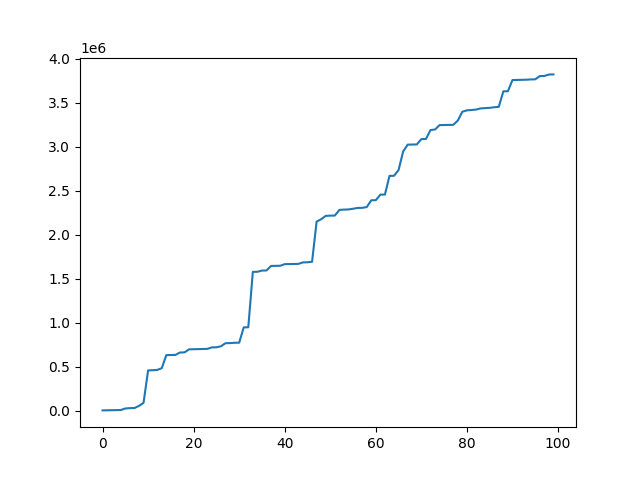
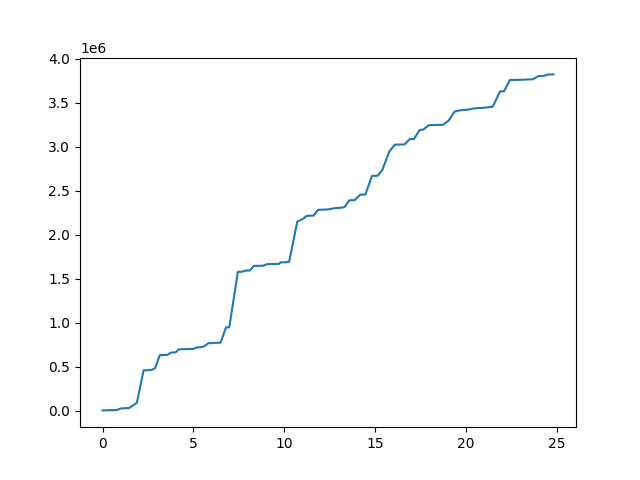
use time_stamps as x axis values

diff --git a/DataOutput.py b/DataOutput.py
@@ -1,14 +1,17 @@
 import json
 import matplotlib.pyplot as plt
+import matplotlib.ticker as mticker
 import os
 from pathlib import Path
 import sys
+from datetime import datetime
 from error_messages import print_err
 from error_messages import print_warn
 
 
 class DataOutput:
     lists = {
+        "time": [],
         "cpu_percent": [],
         "ram_percent": [],
         "bytes_recv": [],
@@ -82,6 +85,7 @@ class DataOutput:
         self.__reset_lists()
         
         for i in range(len(self.data["data"])):
+            self.lists["time"].append(self.__get_time_stamp(i))
             if cpu_percent == True: self.lists["cpu_percent"].append(self.__get_cpu_percent(i))
             if ram_percent == True: self.lists["ram_percent"].append(self.__get_ram_percent(i))
             if bytes_recv == True: self.lists["bytes_recv"].append(self.__get_bytes_recv(i))
@@ -89,15 +93,26 @@ class DataOutput:
             if pps_recv == True: self.lists["pps_recv"].append(self.__get_pps_recv(i))
             if pps_sent == True: self.lists["pps_sent"].append(self.__get_pps_sent(i))
         
+            # get the times as difference from the initial time
+            time_stamps = [0]
+            initial_time = datetime.fromisoformat(self.lists["time"][0])
+            for i in range(1, len(self.lists["time"])):
+                cur_time = datetime.fromisoformat(self.lists["time"][i])
+                time_stamps.append((cur_time - initial_time).total_seconds())
+        
         # TODO: Add way to plot multiple graphs into one graphic
         no_data = True
         for l in self.lists:
-            if self.lists[l] != []:
+            if self.lists[l] != [] and l != "time":
                 short_path = f"data_graphs/{file_name[:-5]}"
                 file_path = os.path.join(os.getcwd(), short_path)
                 Path(file_path).mkdir(parents=True, exist_ok=True)
                 
-                plt.plot(self.lists[l])
+                plt.plot(time_stamps, self.lists[l])
+                # unit = self.__get_unit()
+                # plt.gca().yaxis.set_major_formatter(mticker.FormatStrFormatter(f'%.0f {unit}'))
+                # plt.ylabel(l)
+                
                 plt.savefig(os.path.join(file_path, l))
                 plt.clf()
                 
@@ -112,6 +127,9 @@ class DataOutput:
     def __reset_lists(self):
         for l in self.lists:
             self.lists[l] = []
+
+    def __get_time_stamp(self, entry):
+        return self.data["data"][entry]["time"]
 
     def __get_cpu_percent(self, entry):
         return self.data["data"][entry]["hardware"][0]["cpu_percent"]
@@ -132,11 +150,11 @@ class DataOutput:
         return self.data["data"][entry]["network"][0]["pps_sent"]
 
 if __name__ == "__main__":
-    args = sys.argv[1:]
-    if len(args) == 0:
-        print("Usage: python3 DataOutput.py [file_path/dir_path]")
-    elif len(args) == 1:
-        path = args[0]
+    # args = sys.argv[1:]
+    # if len(args) == 0:
+    #     print("Usage: python3 DataOutput.py [file_path/dir_path]")
+    # elif len(args) == 1:
+        path = "data" # args[0]
         # if path is directory
         if os.path.isdir(path):
             output = DataOutput()
@@ -169,7 +187,7 @@ if __name__ == "__main__":
         # path does not exist
         else:
             print_err("The given path does not exist.")
-    else:   # more than one argument
-        # TODO
-        pass
+    # else:   # more than one argument
+    #     # TODO
+    #     pass
     

diff --git a/test.py b/test.py
@@ -1,0 +1,16 @@
+import matplotlib.pyplot as plt
+import numpy as np
+
+x = np.array([0,1,4,9,16,25,36,49])
+y = np.array([0,1,2,3,4,5,6,7])
+
+plt.plot(x, y, color='r')
+# plt.plot(y, color='g')
+
+plt.xlabel("Test")
+plt.ylabel("Other")
+
+plt.xlim([0, max(x)+0.5])
+plt.ylim([0, max(y)+0.5])
+
+plt.savefig("test")
